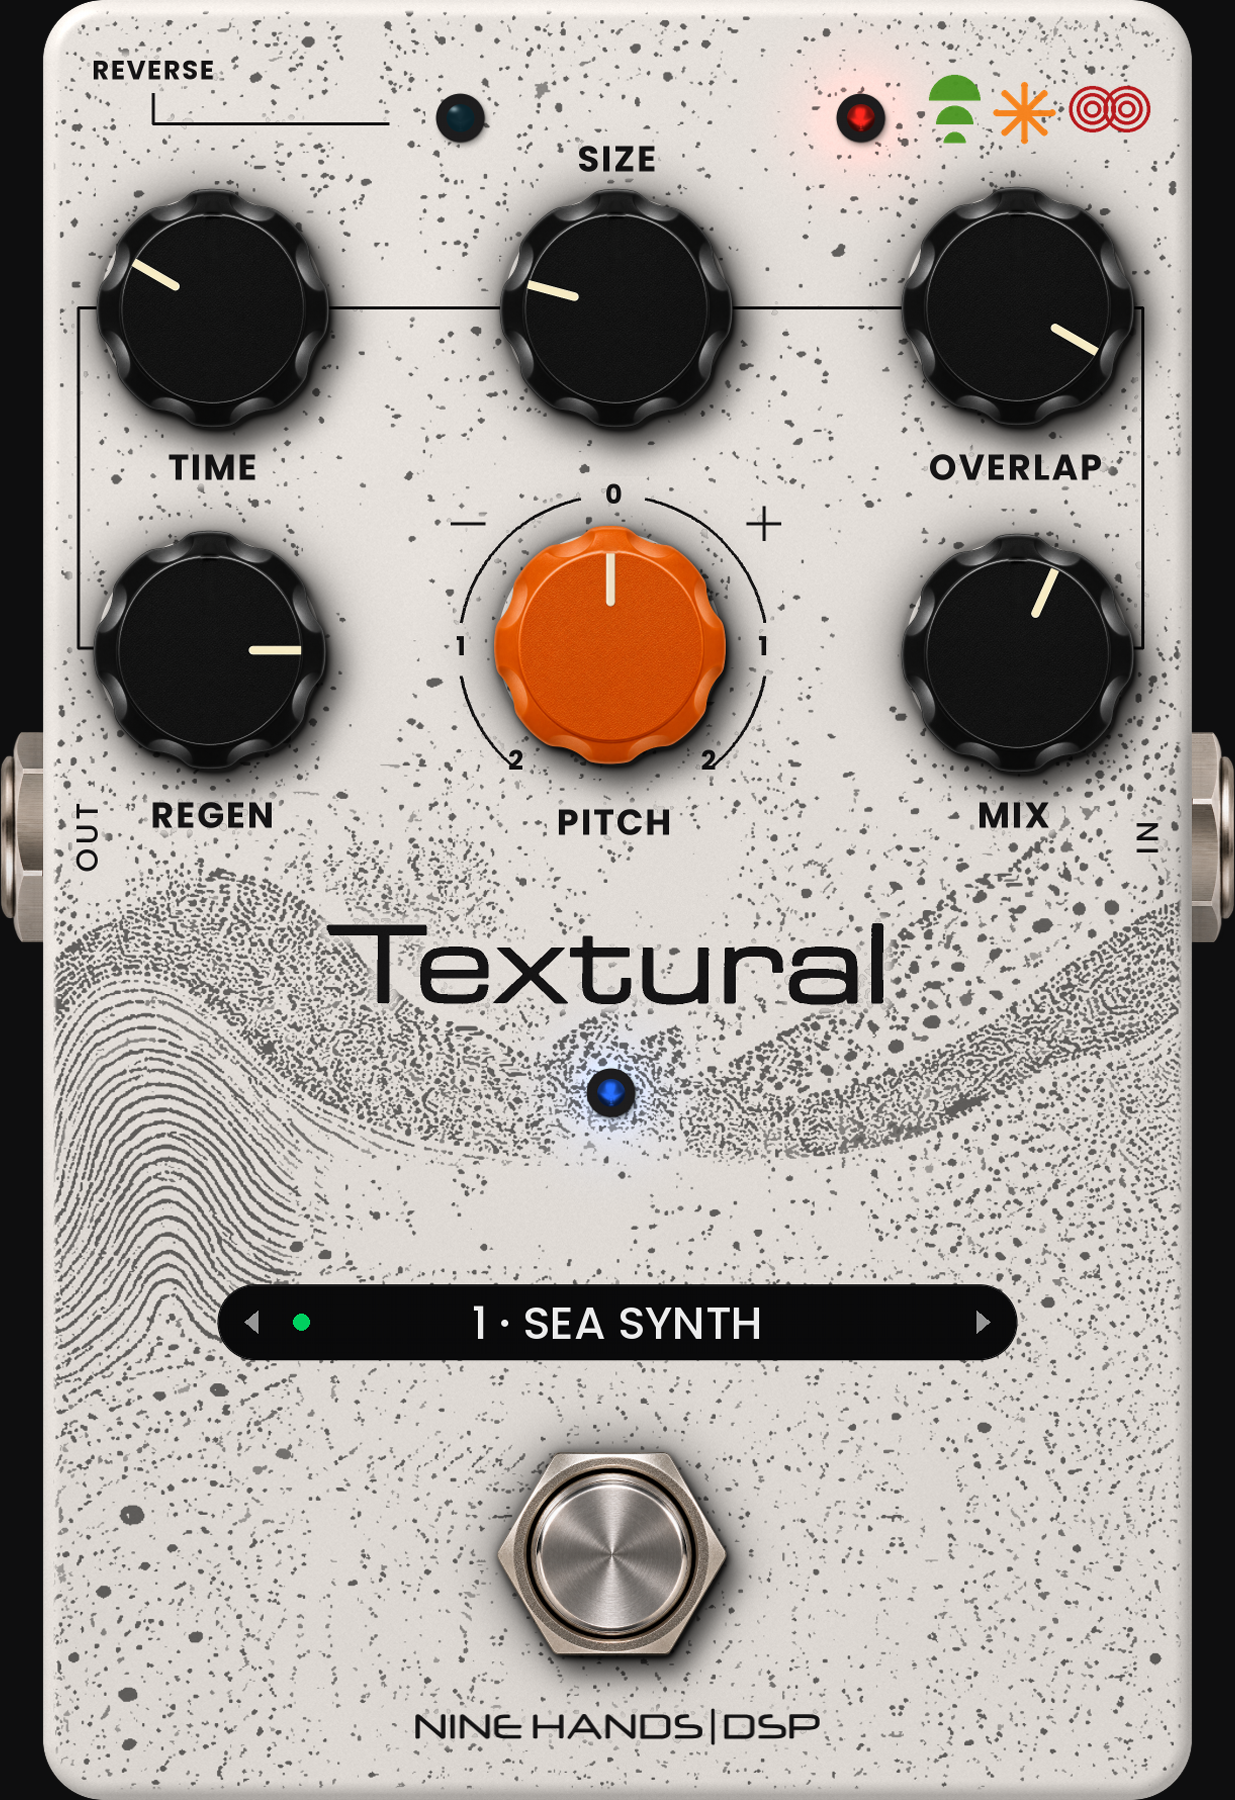
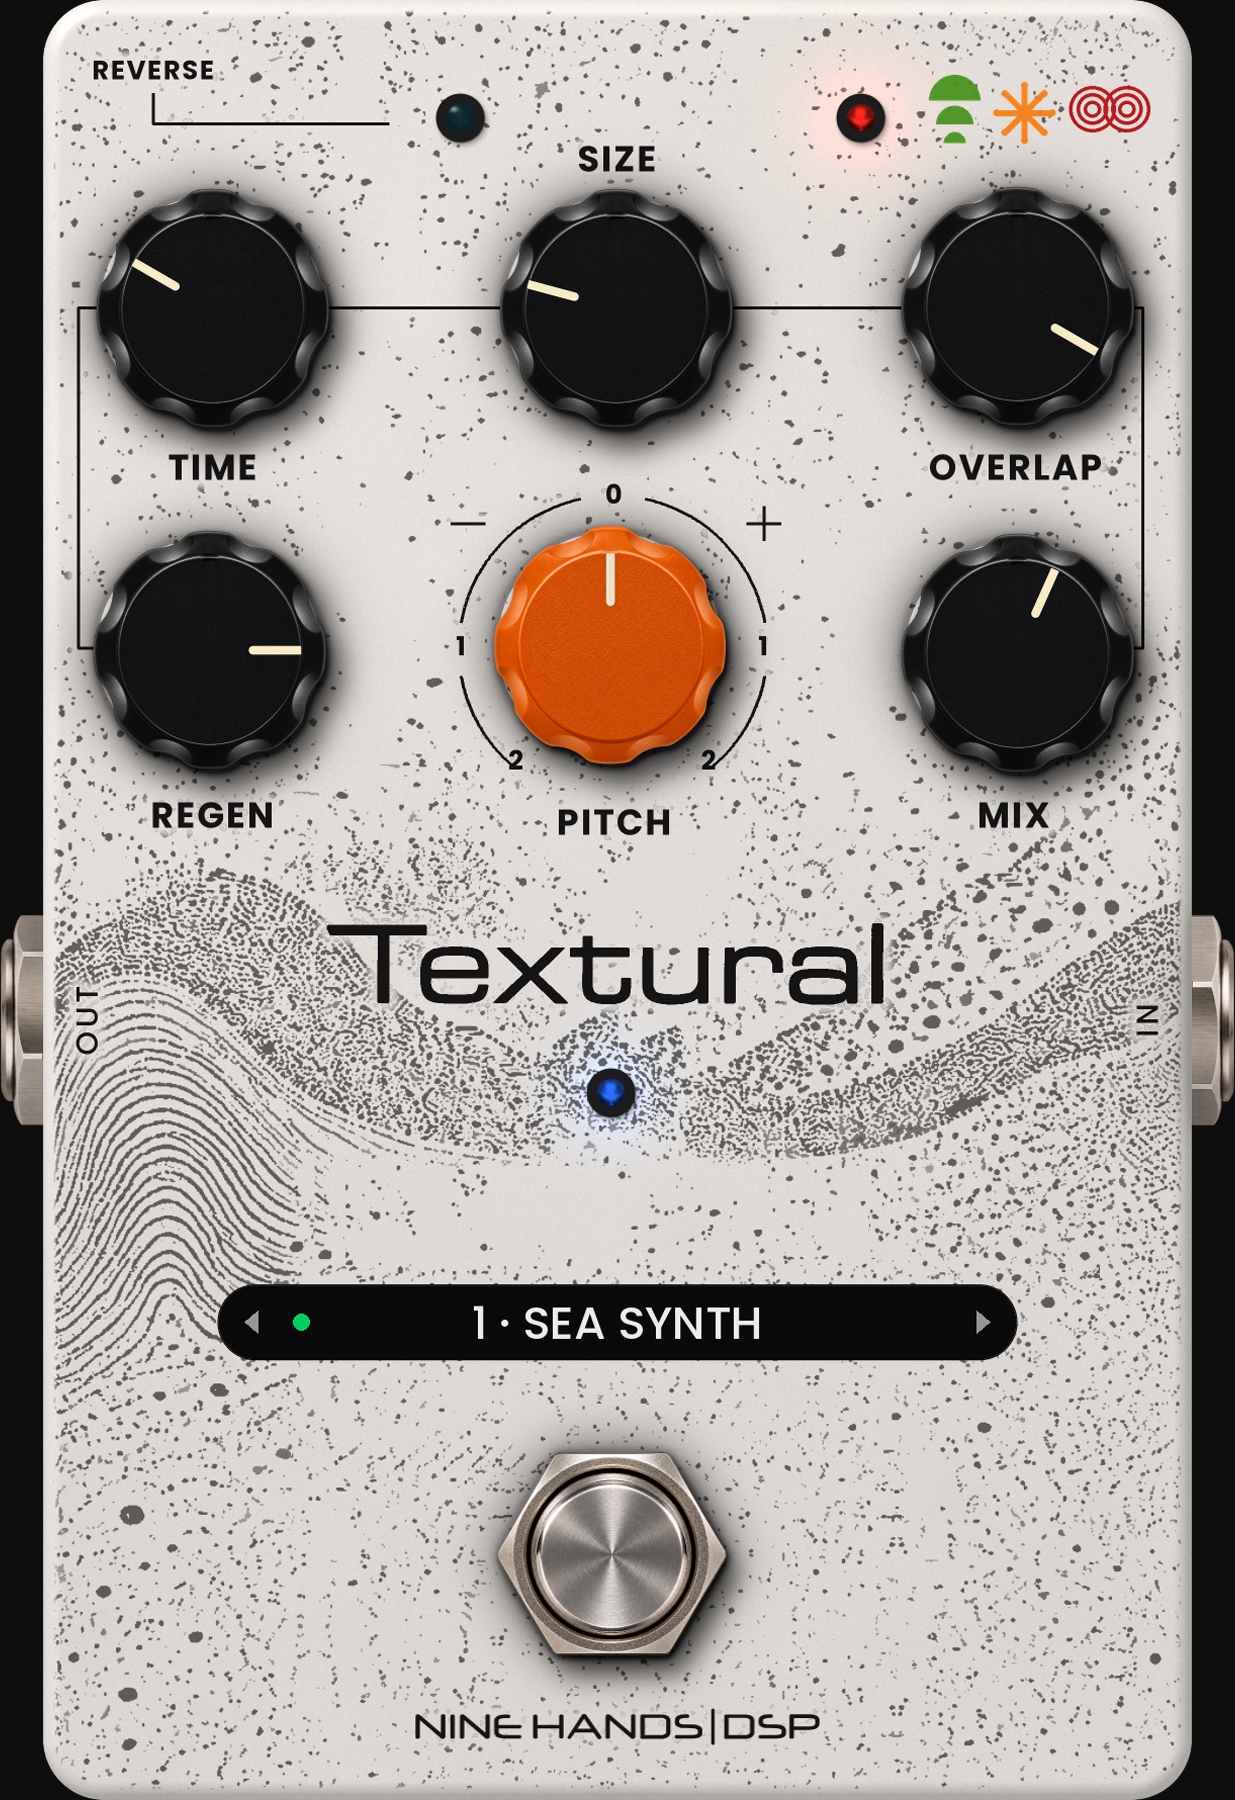
Apercu v2 : jacks et IN / OUT au niveau du titre et de la LED
Claude-Session: https://claude.ai/code/session_01DVineguNdVkvZ7sjaqqiCM

Changed region(s): [[0.8923, 0.4044, 1.0, 0.6222], [0.0, 0.4044, 0.0923, 0.6222]]

diff --git a/tools/make_art.py b/tools/make_art.py
@@ -240,8 +240,6 @@ for (px, py, plus) in [(473, 476, False), (771, 476, True)]:
     line([(x - h_, y), (x + h_, y)])
     if plus: line([(x, y - h_), (x, y + h_)])
 # IN / OUT le long des tranches
-text(PX0 + 22, JACK_Y, 'OUT', f_io, 2.0, 90)
-text(PX0 + PW - 22, JACK_Y, 'IN', f_io, 2.0, 90)
 # titre : contour vectorise de l'ancien visuel
 fp = np.asarray(Image.open(os.path.join(ROOT, 'faceplate.png')).convert('L')).astype(np.float32)
 tx0, ty0, tx1, ty1 = TITLE_BOX
@@ -267,6 +265,11 @@ _ys = [y for p_ in title_paths for _, y in p_]
 _dy = 0.5 * (_pb + _lt) - 0.5 * (min(_ys) + max(_ys)) + TL_DY   # position validee, puis descendu de 20 px
 title_paths = [[(x, y + _dy) for x, y in p_] for p_ in title_paths]
 print('titre : ecart haut', round(min(_ys) + _dy - _pb, 2), 'ecart bas', round(_lt - max(_ys) - _dy, 2))
+# jacks et IN / OUT au niveau du groupe titre + LED (milieu entre le haut du titre et le bas de la LED)
+_tys = [y for p_ in title_paths for _, y in p_]
+JACK_Y = 0.5 * (min(_tys) + STATUS_LED[1] + LED_R * 1.16)
+text(PX0 + 22, JACK_Y, 'OUT', f_io, 2.0, 90)
+text(PX0 + PW - 22, JACK_Y, 'IN', f_io, 2.0, 90)
 tl = Image.new('L', (KW, KH), 0); tdr = ImageDraw.Draw(tl)
 for i, pts in enumerate(title_paths):
     is_hole = hier[0][i][3] >= 0
